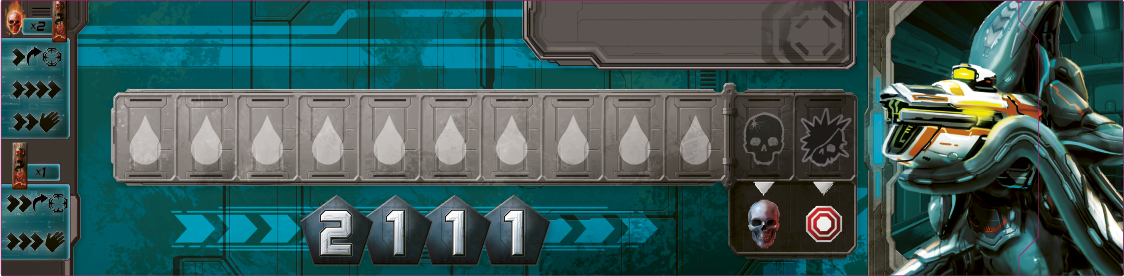
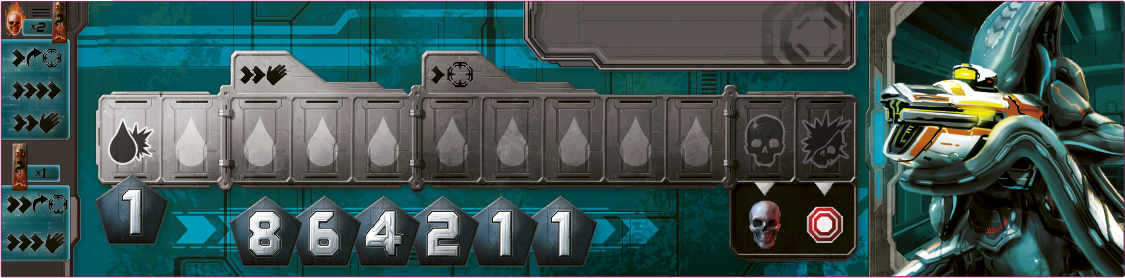
Updated maps and playerBoards resources

diff --git a/src/main/java/it/polimi/ingsw/view/gui/actionhandler/PlayerSetController.java b/src/main/java/it/polimi/ingsw/view/gui/actionhandler/PlayerSetController.java
@@ -10,7 +10,6 @@ import javafx.scene.image.Image;
 import javafx.scene.image.ImageView;
 import javafx.scene.layout.*;
 
-import java.util.ArrayList;
 import java.util.Arrays;
 import java.util.List;
 
@@ -36,6 +35,7 @@ public class PlayerSetController implements Ifxml<StackPane> {
     private int totDamage = 0;
     private MatchSnapshotProvider matchSnapshotProvider;
     private MatchSnapshot old;
+    private static final String PLAYER_PATH = "/player/";
 
     public void initialize()
     {
@@ -134,7 +134,7 @@ public class PlayerSetController implements Ifxml<StackPane> {
     }
 
     private void setBackground(PublicPlayerSnapshot player){
-        String url = "/player/" + color.toLowerCase() + (player.finalFrenzy ? 2 : 1) + ".png";
+        String url = PLAYER_PATH + color.toLowerCase() + player.finalFrenzy  + ".png";
         background.setImage(new Image(getClass().getResourceAsStream(url)));
     }
 
@@ -148,16 +148,16 @@ public class PlayerSetController implements Ifxml<StackPane> {
 
     private String getDropUrl(String color)
     {
-        return "/player/" + color.toLowerCase() + "_drop.png";
+        return PLAYER_PATH + color.toLowerCase() + "_drop.png";
     }
 
     private String getDoubledDropUrl(String color)
     {
-        return "/player/" + color.toLowerCase() + "_drop2.png";
+        return PLAYER_PATH + color.toLowerCase() + "_drop2.png";
     }
 
 
-    void addDamage(String color){
+    private void addDamage(String color){
         ImageView imageView = new ImageView();
         imageView.fitWidthProperty().bind(tears.get(totDamage).widthProperty().multiply(0.7));
         imageView.fitHeightProperty().bind(tears.get(totDamage).heightProperty());

diff --git a/src/main/java/it/polimi/ingsw/model/snapshots/PublicPlayerSnapshot.java b/src/main/java/it/polimi/ingsw/model/snapshots/PublicPlayerSnapshot.java
@@ -48,7 +48,7 @@ public class PublicPlayerSnapshot implements Serializable {
     /**
      * Boolean that represents whether the player has access to the bonuses granted by the final frenzy condition
      */
-    public final boolean finalFrenzy;
+    public final int finalFrenzy;
 
     /**
      * List of strings that represents the amount of damage the player currently has. Every string is a color, which
@@ -84,16 +84,22 @@ public class PublicPlayerSnapshot implements Serializable {
 
     /**
      * Constructor. It collects all the info relative to the player that is visible by the other players.
-     * @param player Players from which the infos are going to be selected
+     * @param player Players from which the infos are going to be selected.
+     * @param finalFrenzy It say if the match has reached the Final Frenzy mode.
      */
-    public PublicPlayerSnapshot(Player player) {
+    public PublicPlayerSnapshot(Player player, boolean finalFrenzy) {
         this.color = player.color.getName();
         this.name = player.name;
         this.skull = player.getSkull();
         this.blueAmmo = player.getAmmo().blue;
         this.redAmmo = player.getAmmo().red;
         this.yellowAmmo = player.getAmmo().yellow;
-        this.finalFrenzy = player.isFinalFrenzy();
+        if(!finalFrenzy)
+            this.finalFrenzy = 1;
+        else if(!player.isFinalFrenzy())
+            this.finalFrenzy = 2;
+        else
+            this.finalFrenzy = 3;
         for(PlayerColor damageColor : player.getDamage())
             this.damage.add(damageColor.getName());
         for(PlayerColor markColor : player.getMark())

diff --git a/src/main/java/it/polimi/ingsw/model/snapshots/PrivatePlayerSnapshot.java b/src/main/java/it/polimi/ingsw/model/snapshots/PrivatePlayerSnapshot.java
@@ -30,10 +30,11 @@ public class PrivatePlayerSnapshot extends PublicPlayerSnapshot {
 
     /**
      * Constructor. It collects all the info relative to current player that clients are going to need.
-     * @param player
+     * @param player Players from which the infos are going to be selected.
+     * @param finalFrenzy It say if the match has reached the Final Frenzy mode.
      */
-    protected PrivatePlayerSnapshot(Player player) {
-        super(player);
+    protected PrivatePlayerSnapshot(Player player, boolean finalFrenzy) {
+        super(player, finalFrenzy);
         for(WeaponCard weaponCard : player.getLoadedWeapons()) {
             loadedWeapons.add(weaponCard.name);
             loadedWeaponsCost.add(weaponCard.buyCostToString(false));

diff --git a/src/main/java/it/polimi/ingsw/model/snapshots/MatchSnapshot.java b/src/main/java/it/polimi/ingsw/model/snapshots/MatchSnapshot.java
@@ -37,8 +37,8 @@ public class MatchSnapshot implements Serializable {
         gameBoardSnapshot = new GameBoardSnapshot(match.getGameBoard());
         for(Player player : match.getPlayers())
             if(player != currentPlayer)
-                publicPlayerSnapshot.add(new PublicPlayerSnapshot(player));
-        privatePlayerSnapshot = new PrivatePlayerSnapshot(currentPlayer);
+                publicPlayerSnapshot.add(new PublicPlayerSnapshot(player, match.getFinalFrenzy()));
+        privatePlayerSnapshot = new PrivatePlayerSnapshot(currentPlayer, match.getFinalFrenzy());
     }
 
     public List<PublicPlayerSnapshot> getPublicPlayerSnapshot()

diff --git a/src/main/java/it/polimi/ingsw/model/snapshots/GameBoardSnapshot.java b/src/main/java/it/polimi/ingsw/model/snapshots/GameBoardSnapshot.java
@@ -27,6 +27,9 @@ public class GameBoardSnapshot implements Serializable
      * Integer that represents the map selected by the host. (They range from 1 to 3)
      */
     public final int mapType;
+    /**
+     * The killShotTrack, it contains the drops that identify how many kills each person got
+     */
     private final List<List<String>> killShotTrack = new ArrayList<>();
 
     /**
